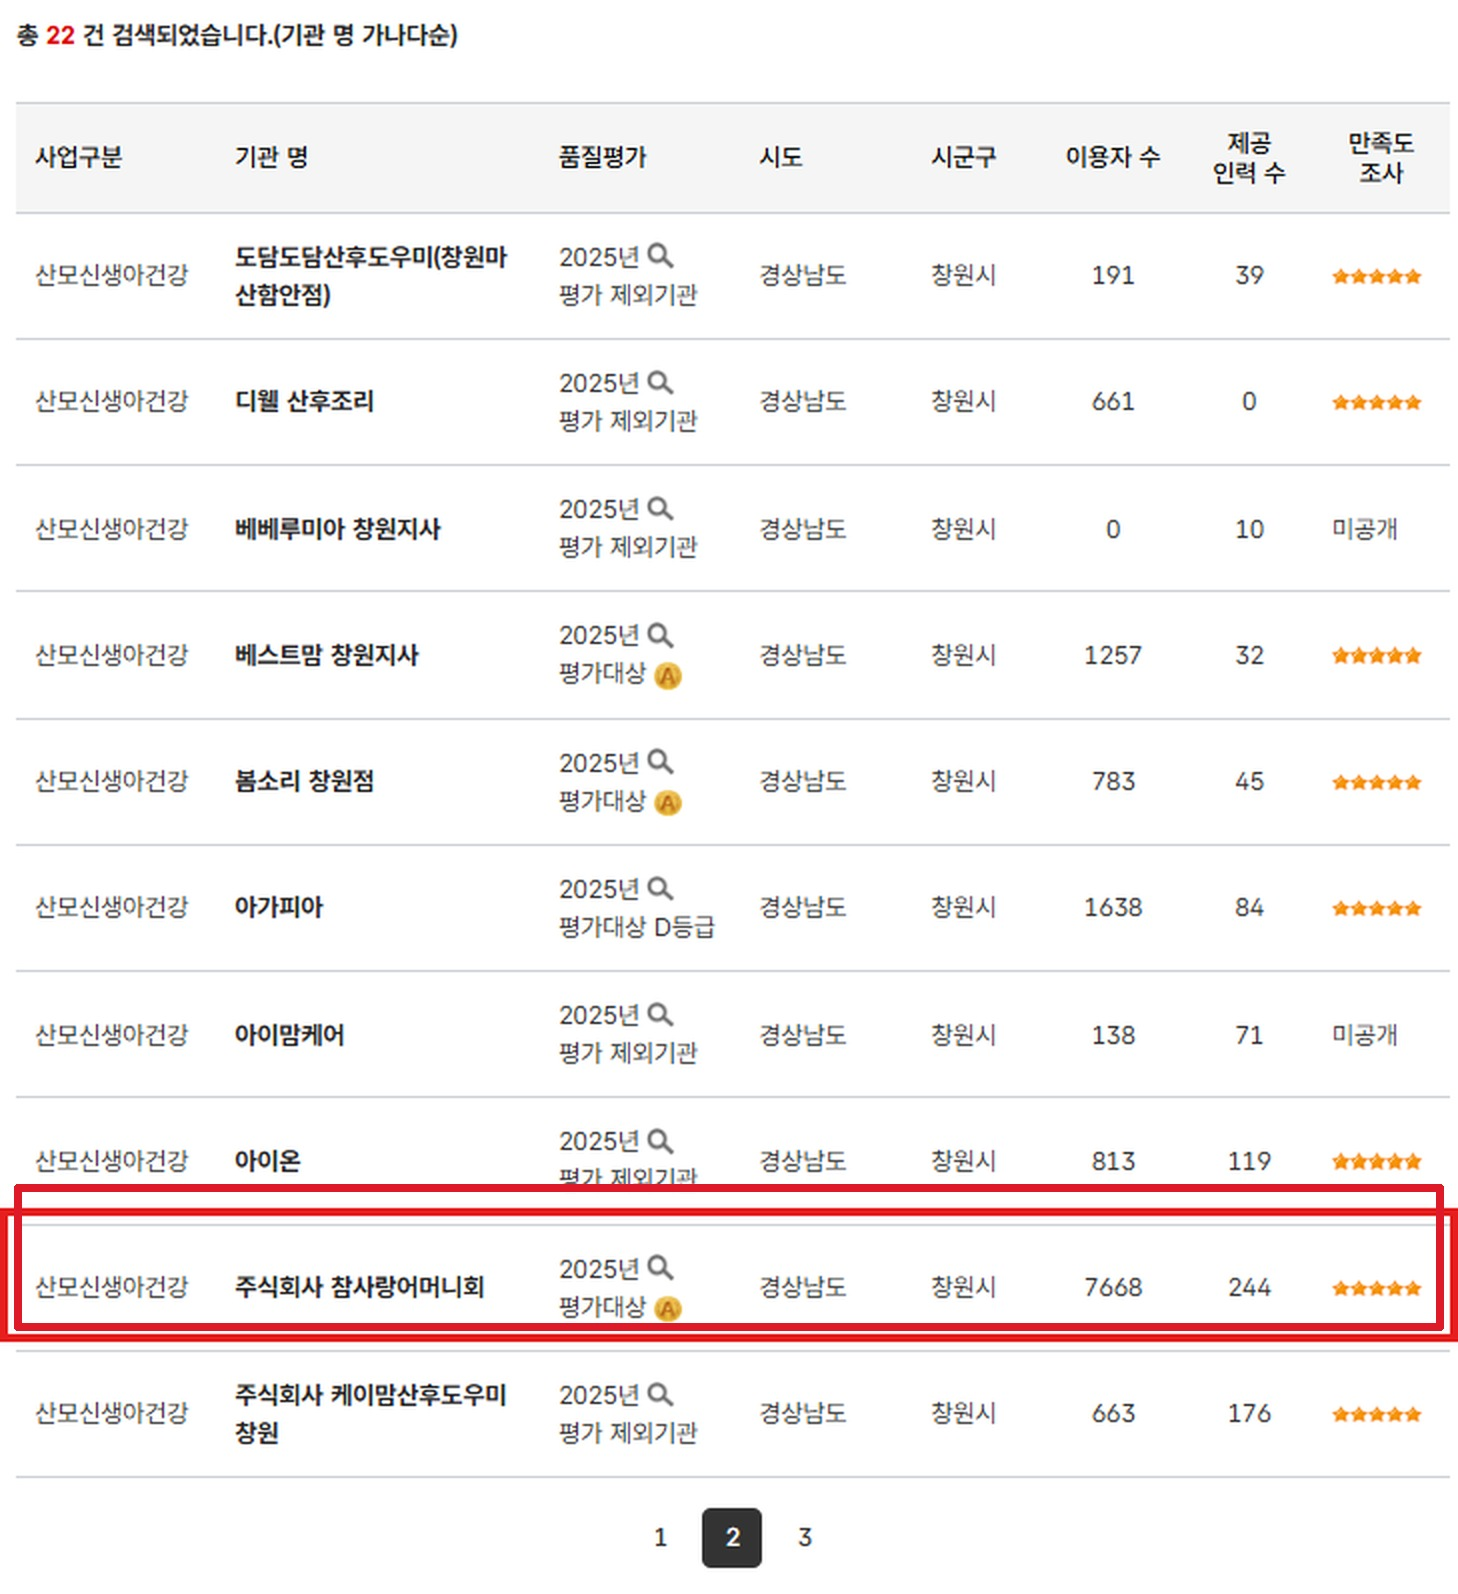
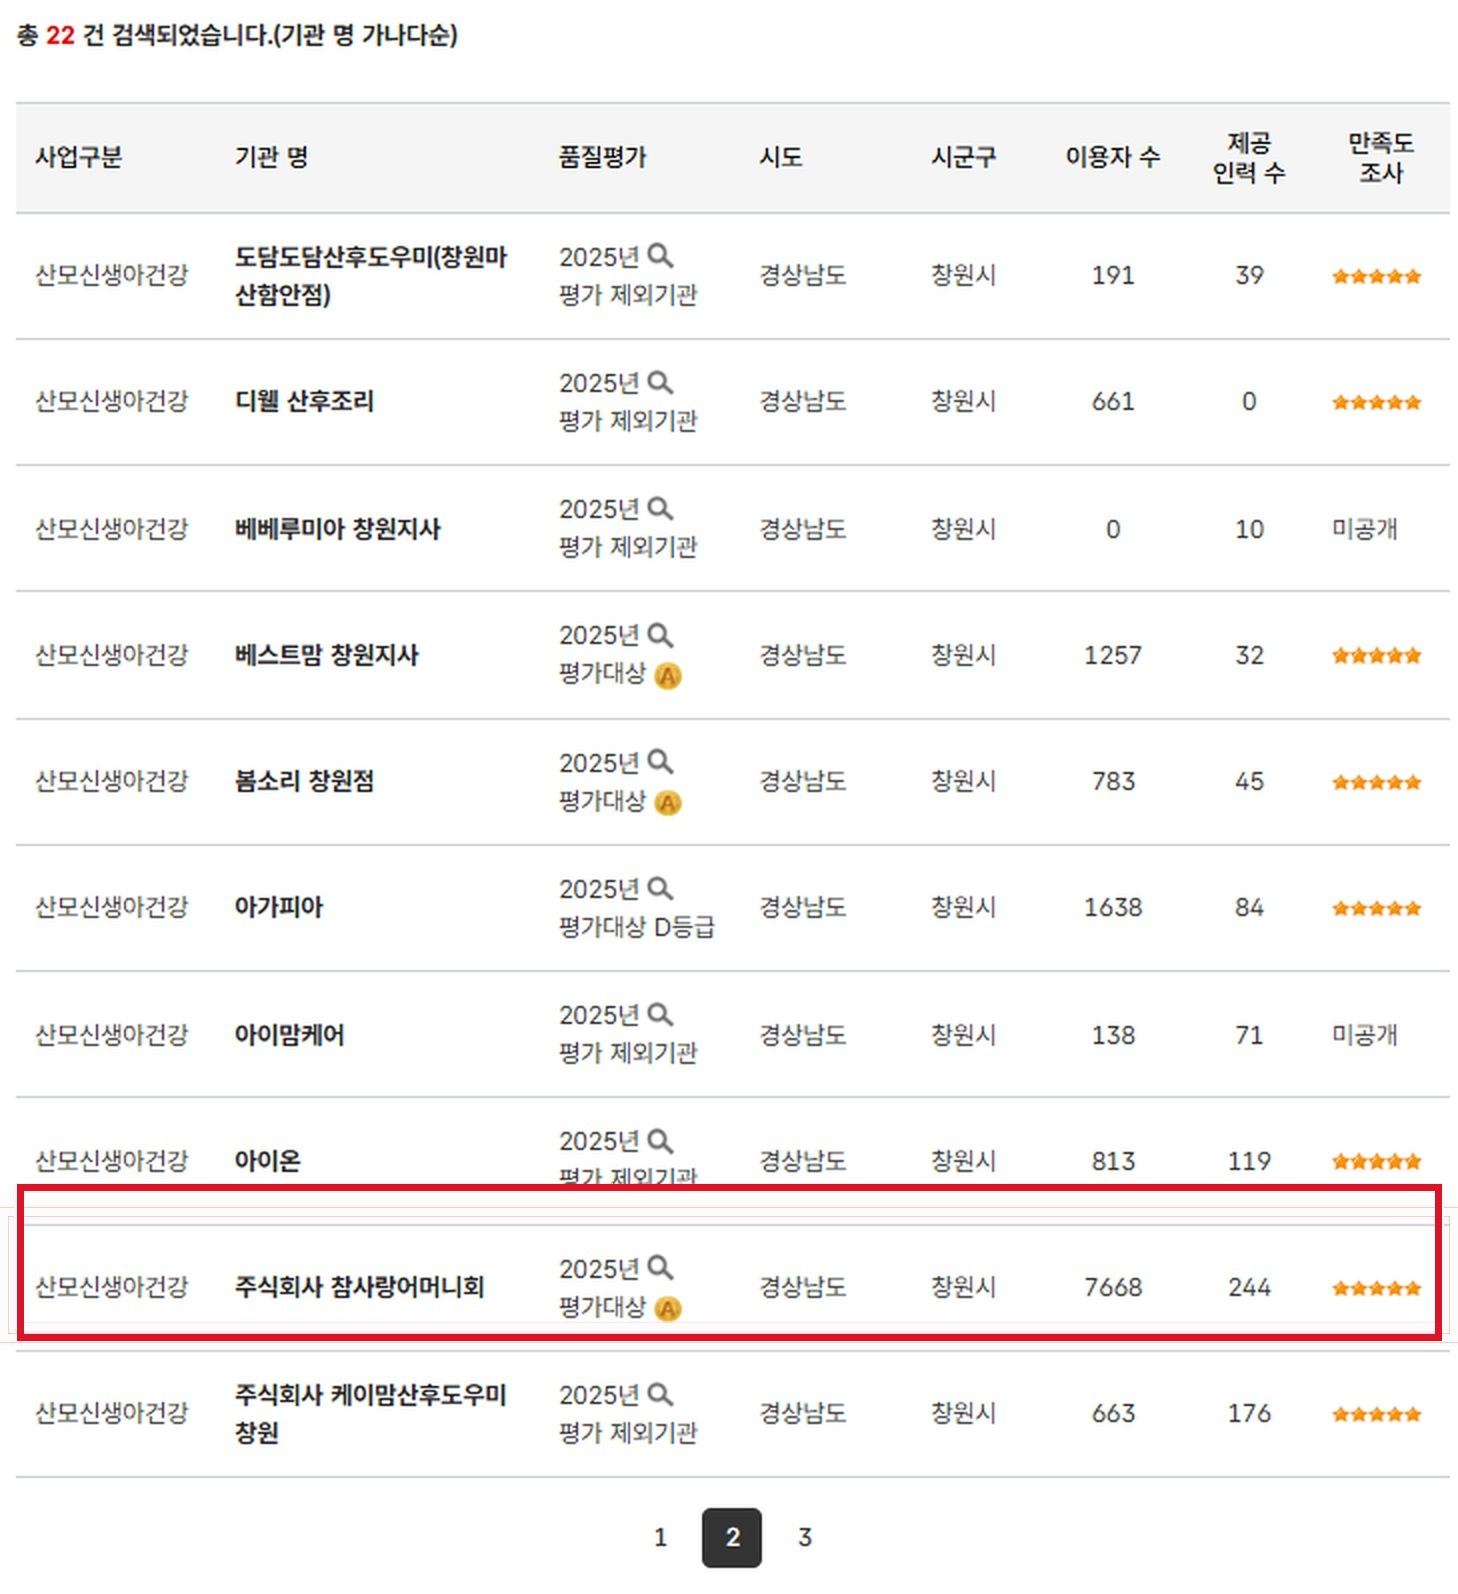
도와주실 분 중복선택, 좋은 인력 프레임 수정, 바우처 네모 단일화, 비교 3카드 동일, 일과표 14시 교체(13:30 복원), 마무리는 응원 문구 중심으로

Changed region(s): [[0.0, 0.7378, 1.0, 0.8607]]

diff --git a/index.html b/index.html
@@ -201,8 +201,14 @@ figure.shot figcaption{font-size:13.5px;color:var(--text-3);margin-top:5px;line-
 .pk.regionpk{padding:13px 6px;border-radius:12px;}
 .pk.regionpk .tl2{font-size:17px;}
 .capgrid{display:grid;grid-template-columns:repeat(3,1fr);gap:10px;}
-.closesplit{grid-template-columns:0.9fr 1.1fr;align-items:center;}
-.closesplit figure.shot img{max-height:430px;}
+.closewrap{display:grid;grid-template-columns:auto 1fr;gap:36px;align-items:center;max-width:960px;margin:4px auto 10px;}
+.closewrap figure.shot{margin:0;}
+.closewrap figure.shot img{max-height:520px;box-shadow:0 22px 50px -24px rgba(150,25,80,.45);}
+.bless{text-align:center;}
+.bless .b1{font-family:"Gowun Batang",serif;font-size:52px;font-weight:700;color:var(--brand-d);line-height:1.3;letter-spacing:-.02em;}
+.bless .b2{font-size:26px;color:var(--navy-d);line-height:1.65;margin-top:18px;}
+.bless .b3{margin-top:22px;font-size:15px;color:var(--text-3);letter-spacing:.22em;}
+@media (max-width:900px){.closewrap{grid-template-columns:1fr;}.bless .b1{font-size:34px;}.bless .b2{font-size:20px;}}
 .procwide{display:flex;justify-content:center;}
 .procwide figure.shot{margin:0;max-width:1050px;width:100%;}
 .procwide figure.shot img{max-height:540px;width:100%;object-fit:contain;background:transparent;}
@@ -876,7 +882,7 @@ var TFQ = [
   { k:"jori", q:"산후조리는 어디서 하실 계획이세요?", sub:"집에서 보내는 시간이 진짜 산후조리입니다",
     opts:[["center","🏥","조리원 갔다가 집으로","보통 2주 정도"],["home","🏠","조리원 없이 집에서",""],
           ["undecided","🤔","아직 고민 중이에요",""]] },
-  { k:"help", q:"집에서 도와주실 분이 계세요?", sub:"이 답에 따라 안내가 크게 달라집니다",
+  { k:"help", multi:true, q:"집에서 도와주실 분이 계세요?", sub:"해당되는 분을 <b>모두</b> 골라주세요",
     opts:[["mom","👵","친정엄마가 오세요",""],["mil","👩🦳","시어머니가 오세요",""],
           ["husband","👨","남편만 있어요",""],["none","🙅","도와주실 분이 없어요",""]] },
   { k:"focus", multi:true, q:"서비스 받으실 때 어디에 가장 신경 써주면 좋겠어요?",
@@ -917,7 +923,8 @@ function tfApply(){
 }
 function tfDone(){ return TFQ.every(function(q){ return q.multi ? (TF[q.k]&&TF[q.k].length) : TF[q.k]; }); }
 function tfResult(){
-  var w = (TF.focus||[])[0], h = TF.help, j = TF.jori, hw = TF.how;
+  var w = (TF.focus||[])[0], ha = TF.help || [], j = TF.jori, hw = TF.how;
+  var h = ha.length ? ha[0] : null;
   var R = {
     body:["회복 우선형","💗","산모님 몸 회복을 가장 신경 쓰고 계십니다.",
       "산후풍·수유 문제는 <b>초기 2주</b>가 가장 중요합니다. 매일 상태를 확인하고 좌욕과 회복 식단까지 챙겨드립니다."],
@@ -933,10 +940,10 @@ function tfResult(){
       "제공인력은 <b>낮 시간(09~18시)</b>에 오십니다. 낮에 아기를 봐드리는 동안 <b>눈을 붙이실 수 있는 것</b>이 가장 큰 차이입니다."]
   }[w] || ["맞춤 상담형","🌸","산모님 상황에 맞춰 안내해 드리겠습니다.",""];
   var recos = [];
-  if (h === "mom" || h === "mil")
+  if (ha.indexOf("mom") >= 0 || ha.indexOf("mil") >= 0)
     recos.push(["가족 산후관리사 — 꼭 보세요",
       (h==="mom"?"친정어머니":"시어머니")+"께서 저희 소속 제공인력로 등록하시면 <b>국가지원을 받으면서</b> 돌봐주실 수 있습니다."]);
-  else if (h === "none") recos.push(["기간을 넉넉히","도와주실 분이 없으면 짧게 잡으셨다 힘들어하시는 경우가 많습니다."]);
+  else if (ha.indexOf("none") >= 0) recos.push(["기간을 넉넉히","도와주실 분이 없으면 짧게 잡으셨다 힘들어하시는 경우가 많습니다."]);
   else recos.push(["남편분과 함께","오시는 시간과 해주시는 범위를 두 분이 같이 아셔야 편합니다."]);
   if (j === "center") recos.push(["조리원 다음이 진짜","바우처는 <b>출산일부터 90일</b> 안에 쓰시면 됩니다."]);
   else if (j === "home") recos.push(["집에서 하시면 기간이 중요","제공인력과 보내는 시간이 산후조리 그 자체가 됩니다."]);
@@ -960,7 +967,8 @@ function s_typefinder(){
         '<span class="tl2">'+o[2]+'</span>'+(o[3]?'<span class="sb">'+o[3]+'</span>':'')+'</button>';
     });
     h += '</div>';
-    if (q.multi) h += '<p class="pickinfo" style="text-align:center;"><b>'+(TF[q.k]||[]).length+' / '+MAXPICK+'</b>개 선택 — 2개를 고르시면 다음으로 넘어갑니다.</p>';
+    if (q.multi && q.k === "help") h += '<p class="pickinfo" style="text-align:center;">여러 명 계시면 <b>모두</b> 눌러주세요 — 고르셨으면 <b>다음</b>을 눌러주세요.</p>';
+    else if (q.multi) h += '<p class="pickinfo" style="text-align:center;"><b>'+(TF[q.k]||[]).length+' / '+MAXPICK+'</b>개 선택 — 2개를 고르시면 다음으로 넘어갑니다.</p>';
   } else if (tfDone()){
     var r = tfResult();
     h += '<div class="split" style="margin-bottom:12px;">' +
@@ -990,7 +998,7 @@ function s_matching(){
   var wants = TF.want || [], chips = "";
   if (TF.birth) chips += chip(tfLabel("birth", TF.birth));
   if (TF.jori) chips += chip(tfLabel("jori", TF.jori));
-  if (TF.help) chips += chip(tfLabel("help", TF.help));
+  (TF.help||[]).forEach(function(v){ chips += chip(tfLabel("help", v)); });
   wants.forEach(function(v){ chips += chip(tfLabel("want", v), true); });
   (TF.focus||[]).forEach(function(v){ chips += chip("신경 — " + tfLabel("focus", v)); });
   var wantTxt = wants.length ? wants.map(function(v){ return tfLabel("want", v); }).join(" · ") : "산모님께 맞는";
@@ -1064,15 +1072,15 @@ function s_company(){
       '<div class="box hi" style="padding:18px 20px;"><h3 style="margin-bottom:5px;">가장 많은 서비스를 진행했습니다</h3>' +
       '<p>이용 산모님 수 <b class="hl">경남 1위</b> — 그만큼 많은 분들이 믿고 맡기셨습니다.</p></div>' +
       '<div class="box hi" style="padding:18px 20px;"><h3 style="margin-bottom:5px;">가장 많은 제공인력을 보유하고 있습니다</h3>' +
-      '<p>제공인력 수 <b class="hl">경남 1위</b> — 원하시는 조건에 <b>맞춤으로 배정</b>받으실 수 있습니다.</p></div>' +
+      '<p>산모님이 <b>걱정하시는 부분에 맞춰</b> 진행해 드릴 <b class="hl">좋은 제공인력이 많은 회사</b> — 그게 저희입니다.</p></div>' +
     '</div></div>' +
   script([
     "저희 참사랑어머니회는 산모·신생아 건강관리만 전문으로 해온 기관이에요.",
     "정부 공식 사이트에서 보시면 경남에서 서비스를 가장 많이 진행했고, 제공인력도 가장 많이 보유하고 있어요.",
     "많이 진행했다는 건 그만큼 많은 분들이 믿고 맡기셨다는 뜻이고요,",
-    "제공인력이 많다는 건, 산모님이 원하시는 조건에 맞는 분을 맞춤으로 배정해 드릴 수 있다는 뜻이에요."
+    "저희가 드리고 싶은 말씀은 이거예요 — 지금 걱정하시는 것들에 맞춰서 진행해 드릴 수 있는, 좋은 제공인력이 많은 회사가 저희 참사랑이에요."
   ], "이 화면은 딱 두 가지만 — <b>가장 많이 진행 · 가장 많이 보유</b>. 캡처의 빨간 박스를 짚어주세요.") +
-  checklist("company", ["가장 많은 서비스 진행 (이용자 1위)","제공인력 1위 → 조건에 맞는 맞춤 배정","정부 공식 집계라는 점"]);
+  checklist("company", ["가장 많은 서비스 진행 (이용자 1위)","좋은 인력이 많다 → 걱정에 맞춰 진행","정부 공식 집계라는 점"]);
 }
 
 /* ══════════ 5. 품질평가 A등급 ══════════ */
@@ -1117,7 +1125,7 @@ function s_compare(){
     photo("compare-teach.jpg","② 교육원 직접 운영") +
     photo("consult-manager.jpg","③ 전문 담당자 밀착") + '</div>' +
   '<div class="cards c3">' +
-    '<div class="box hi"><h3>① 나에게 맞는 제공인력</h3>' +
+    '<div class="box"><h3>① 나에게 맞는 제공인력</h3>' +
       '<p>같은 값이면 <b>내 요구에 맞는 분</b>이 오셔야 합니다. 사람이 하는 서비스라 <b>안 맞으시면 교체</b>도 됩니다.</p></div>' +
     '<div class="box"><h3>② 교육원을 직접 운영</h3>' +
       '<p><b>창원참사랑평생교육원</b>을 함께 운영합니다. 제공인력의 <b>실력과 체계적 관리</b>가 다릅니다.</p></div>' +
@@ -1170,7 +1178,7 @@ function s_day(){
   script([
     "하루 일과를 그림으로 보여드릴게요. 9시에 오셔서 앞치마 갈아입고 손 씻는 것부터 시작해요.",
     "오전에는 아침 준비하고 체온 체크하고, 수유 도와드리고요. 12시부터 1시까지는 제공인력 식사 겸 휴게시간이에요.",
-    "오후에는 스트레칭 돕고, 3시에 아기 목욕이랑 배꼽소독 해드려요. 4시부터는 좌욕 도와드리고요.",
+    "오후에는 아기 돌봐드리면서 산모님 쉬시게 해드리고, 3시에 아기 목욕이랑 배꼽소독 해드려요. 4시부터는 좌욕 도와드리고요.",
     "5시부터는 저녁 준비하고 기록지 쓰고 마무리해요.",
     "이 일정은 산모님 상황에 맞게 조정돼요. 꼭 이대로만 하는 건 아니에요."
   ], "<b>실제 표준일정표</b>입니다. 산모님이 가장 궁금해하시는 부분이니 그림을 짚어가며 천천히 설명하세요. " +
@@ -1388,7 +1396,7 @@ function s_summary(){
   function j(k){ return (TF[k]||[]).map(function(v){ return tfLabel(k,v); }).join(" · "); }
   var sum = '<div class="sum"><h3>오늘 상담 요약</h3>';
   sum += row("상황", situation() + (TF.jori ? "  ·  " + tfLabel("jori", TF.jori) : "") +
-                     (TF.help ? "  ·  " + tfLabel("help", TF.help) : ""));
+                     ((TF.help&&TF.help.length) ? "  ·  " + TF.help.map(function(v){return tfLabel("help",v);}).join(", ") : ""));
   if (j("focus")) sum += row("중점 케어", j("focus"));
   if (j("want")) sum += row("바라시는 분", j("want"));
   if (j("fear")) sum += row("걱정하신 것", j("fear"));
@@ -1439,56 +1447,33 @@ function guPhone(){
   return GU_PHONE_DEFAULT[g] || GU_PHONE_DEFAULT["기타지역"];
 }
 function s_close(){
-  function fld(k,label,ph,type){
-    return '<div><span class="lab">'+label+'</span><input type="'+(type||"text")+'" data-s="'+k+'" ' +
-      'value="'+esc(S[k])+'" placeholder="'+(ph||"")+'"></div>';
-  }
-  var form = "";
-  if (closeMode === "reserve"){
-    form = '<div class="box" style="padding:14px 17px;margin-bottom:12px;">' +
-      '<p class="sm" style="margin-bottom:9px;"><b>예약은 예약금 입금과 동시에 확정</b>됩니다 — 지금은 기본 정보만 적어두시면 돼요. ' +
-      '예약금 입금은 담당자가 개별 안내드립니다.</p>' +
-      '<div class="form f3" style="margin:0;">' +
-        fld("name","성함","산모님 성함") + fld("phone","연락처","010-0000-0000") + fld("birth","생년월일","1995-01-01") +
-        fld("addr","주소","창원시 …") + fld("due","출산 예정일","","date") + fld("startWish","서비스 희망 시작일","출산 후 바로 등") +
-        '<div><span class="lab">출산 방법</span><div class="seg mini">' +
-          seg("deliv","natural","자연분만") + seg("deliv","cesarean","제왕절개") + '</div></div>' +
-        fld("memo","특이사항","반려동물 · 큰아이 · 알레르기 등") + '</div>' +
-      '<div style="margin-top:10px;display:flex;gap:9px;flex-wrap:wrap;">' +
-        '<button class="btn pri lg" id="saveBtn" type="button">등록하고 저장하기</button>' +
-        '<button class="btn lg" id="homeSiteBtn" type="button">🌐 본사 예약 사이트 열기</button></div></div>';
-  }
   return head("마무리", "오늘 함께해 주셔서 감사합니다") +
-  '<div class="split closesplit">' + photo("closing-bless.jpg","산모님과 아기의 모든 날을 응원합니다","tall") +
-    '<div>' +
-      '<div class="punch"><div class="lab">부담 갖지 않으셔도 됩니다</div>' +
-      '<div class="txt">오늘 꼭 결정하지 않으셔도 돼요. <b class="hl">언제든 전화 주시면</b> 오늘 나눈 내용 그대로 ' +
-      '<b>이어서</b> 상담해 드립니다.</div></div>' +
-      '<div style="display:flex;gap:9px;flex-wrap:wrap;margin-bottom:12px;">' +
-        '<button class="btn pri" id="reserveToggle" type="button">📝 현장 예약 진행하기</button>' +
-        '<button class="btn" id="smsOpenBtn" type="button">📨 상담 내용 문자로 보내기</button></div>' +
-      '<div class="form" style="margin:0 0 10px;max-width:340px;">' + fld("phone4","(선택) 연락처 뒷 네 자리","0000") + '</div>' +
-      '<p class="sm" style="margin-bottom:10px;">뒷 네 자리만 남기시면 다음에 <b>오늘 내용을 찾아 이어서</b> 상담해 드려요. ' +
-      (closeMode === "reserve" ? '' : '<button class="btn" id="saveBtn" type="button" style="margin-left:6px;">저장</button>') + '</p>' +
-      '<div class="telline" style="margin-bottom:0;"><b>'+esc(S.region||"우리 지역")+' 담당자</b> '+guPhone()+'</div>' +
-    '</div></div>' + form +
-  '<div class="box" style="padding:11px 15px;margin-bottom:10px;">' +
-    '<span class="lab">상담 추가 메모 — 저장·문자에 함께 담깁니다</span>' +
-    '<textarea id="closeMemo" rows="2" style="width:100%;margin-top:5px;font-family:inherit;font-size:15px;padding:8px 11px;' +
-    'border:1.5px solid var(--line-2);border-radius:10px;resize:vertical;" ' +
-    'placeholder="예: 첫째 4살 · 10월 초 시작 희망 · OO 관리사님 문의">' + esc(S.consultMemo) + '</textarea></div>' +
-  (justSaved ? '<div class="saved">✓ 저장했습니다. 다음에 찾아서 이어서 상담하실 수 있습니다.</div>' : '') +
-  '<button class="btn" id="newBtn2" type="button">새 상담 시작</button>' +
+  '<div class="closewrap">' +
+    photo("closing-bless.jpg","","tall") +
+    '<div class="bless">' +
+      '<div class="b1">엄마가 된 당신을<br>응원합니다</div>' +
+      '<div class="b2">산모님과 아기의 모든 날이<br>건강하고 따뜻하기를</div>' +
+      '<div class="b3">참사랑어머니회 드림</div>' +
+    '</div></div>' +
+  (justSaved ? '<div class="saved" style="text-align:center;">✓ 오늘 상담을 저장했습니다.</div>' : '') +
+  '<div style="text-align:center;margin-top:6px;"><button class="btn" id="newBtn2" type="button">새 상담 시작</button></div>' +
+  '<div class="chk" data-staff hidden><h4>상담자 마무리 체크 <span class="cnt">저장·전달</span></h4>' +
+    '<div style="display:flex;gap:10px;align-items:center;flex-wrap:wrap;margin-bottom:8px;">' +
+    '<input type="text" data-s="phone4" value="' + esc(S.phone4) + '" placeholder="연락처 뒷 네 자리" ' +
+    'style="width:170px;padding:9px 12px;border-radius:9px;border:1.5px solid #2A4A6E;background:#0F2038;color:#EAF1F8;font-family:inherit;font-size:15px;">' +
+    '<button class="btn pri" id="saveBtn" type="button">오늘 상담 저장</button></div>' +
+    '<p style="margin:0;font-size:14px;color:#9FB4CE;">예약 원하시면 본사 사이트에서 바로 진행(예약금은 담당자 안내) · ' +
+    '상담 내용 전달은 <b style="color:#FFD3E4;">F키 → 문자 템플릿</b> · 망설이시면 &ldquo;다음에 이어서 상담 가능&rdquo;만 안내</p></div>' +
   script([
-    "오늘 이야기는 여기까지예요. 시간 내주셔서 정말 감사합니다.",
-    "예약하고 가시려면 지금 바로 도와드릴게요. 기본 정보만 적어두시면 되고, 확정은 예약금 입금하실 때예요.",
+    "오늘 이야기는 여기까지예요. 귀한 시간 내주셔서 정말 감사합니다.",
+    "예약하고 가시려면 지금 바로 도와드릴게요. 확정은 예약금 입금하실 때니까 부담은 없으세요.",
     "조금 더 생각해 보고 싶으시면 그것도 좋아요. 언제든 전화 주시면 오늘 나눈 내용 그대로 보면서 이어서 상담해 드려요.",
-    "산모님, 남은 기간 몸 편안하게 보내시고요 — 산모님과 아기의 모든 날이 건강하고 따뜻하기를 참사랑이 응원할게요."
-  ], "<b>감사 인사로 끝내세요.</b> 예약을 재촉하지 말고 — 예약하실 분은 📝 버튼으로 바로, " +
-     "망설이는 분께는 <b>&lsquo;다음에 이어서 상담 가능&rsquo;</b>만 따뜻하게 안내하면 충분합니다.") +
+    "산모님 — 엄마가 된 당신을 응원합니다. 산모님과 아기의 모든 날이 건강하고 따뜻하기를 바랄게요."
+  ], "<b>이 화면은 산모님을 위한 마무리입니다.</b> 버튼도 절차도 없이 응원 문구로 끝내세요. " +
+     "저장·문자·예약 처리는 아래 상담자 체크(이 서랍)에서 하시면 됩니다.") +
   checklist("close", [
-    "감사 인사 먼저","예약 원하면 📝 바로 진행 (확정은 입금 때)","망설이면 &lsquo;이어서 상담 가능&rsquo; 안내",
-    "뒷 네 자리 저장 권유","📨 복사 → 카톡 나와의 채팅 → 폰에서 문자","건강 기원 문구로 마무리"
+    "감사 인사 먼저","예약 원하면 본사 사이트에서 바로 진행","망설이면 &lsquo;이어서 상담 가능&rsquo; 안내",
+    "뒷 네 자리 저장 (위 입력칸)","문자 전달: F키 → 복사 → 카톡 나와의 채팅 → 폰","응원 문구 읽어드리며 마무리"
   ]);
 }
 
@@ -1951,6 +1936,7 @@ function restoreLog(id){
   S.consultMemo = rec.consultMemo || ""; S.region = rec.region || "";
   S.fetus = rec.fetus; S.order = rec.order; S.band = rec.band; S.period = rec.period;
   TF = JSON.parse(JSON.stringify(rec.tf || {}));
+  if (typeof TF.help === "string") TF.help = [TF.help];
   tfIdx = TFQ.length;
   checks = {}; QA_STATE = {}; GUESS = null; justSaved = false;
   openLog(false);
@@ -2096,7 +2082,7 @@ function renderMomBar(){
   if (!mb) return;
   var bits = [];
   if (TF.birth) bits.push([tfLabel("birth", TF.birth), false]);
-  if (TF.help) bits.push([tfLabel("help", TF.help), false]);
+  (TF.help||[]).forEach(function(v){ bits.push([tfLabel("help", v), false]); });
   (TF.focus||[]).forEach(function(v){ bits.push(["신경 " + tfLabel("focus", v), false]); });
   (TF.want||[]).forEach(function(v){ bits.push([tfLabel("want", v), false]); });
   (TF.fear||[]).forEach(function(v){ bits.push(["걱정 " + tfLabel("fear", v), true]); });
@@ -2265,6 +2251,15 @@ document.addEventListener("click", function(e){
   var tf = e.target.closest("[data-tf]");
   if (tf){
     var k = tf.dataset.tf, v = tf.dataset.tv;
+    if (k === "help"){
+      var ha = TF.help || [], hi = ha.indexOf(v);
+      if (v === "none"){ TF.help = (hi >= 0) ? [] : ["none"]; }
+      else {
+        if (hi >= 0) ha.splice(hi,1); else ha.push(v);
+        TF.help = ha.filter(function(x){ return x !== "none"; });
+      }
+      render(); return;
+    }
     if (tf.dataset.multi){
       var arr = TF[k] || [], at = arr.indexOf(v);
       if (at >= 0) arr.splice(at,1);
